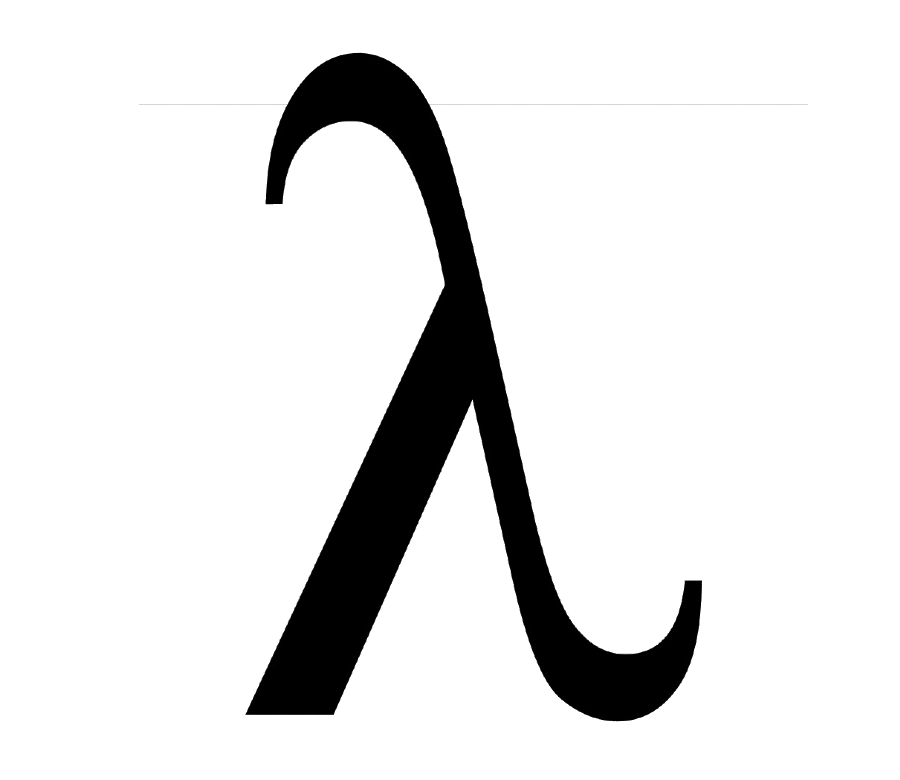
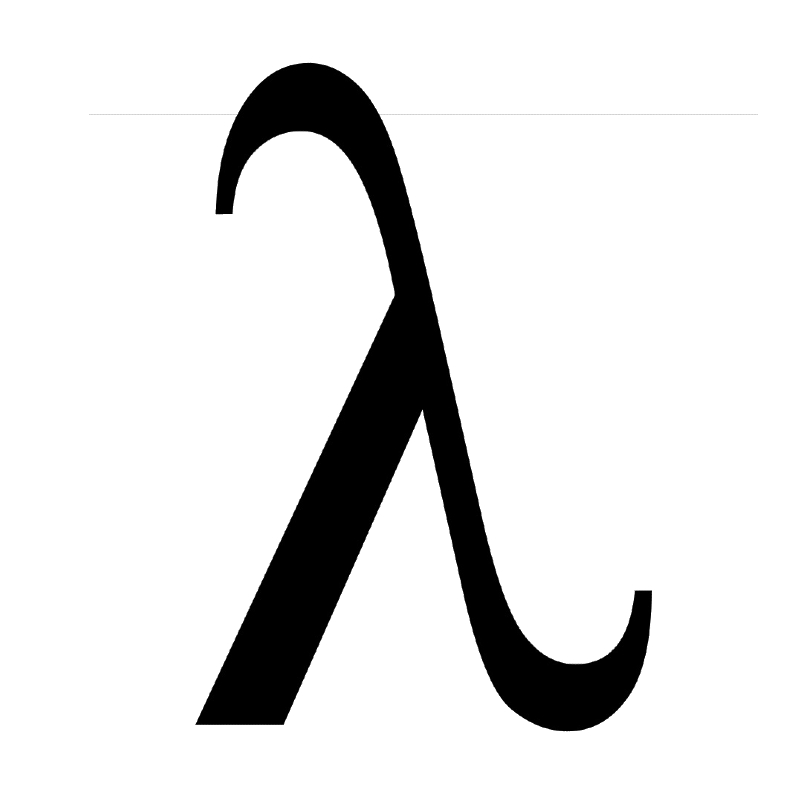
atualizei

diff --git a/portifolio3/css/style.scss b/portifolio3/css/style.scss
@@ -112,21 +112,49 @@ main {
     background-attachment: fixed;
     padding-top: 50px;
     position: relative;
+    height: 400px;
 }
 
+.alfbt {
+    width: 200px;
+    border: 2px solid black;
+    position: absolute;
+    display: flex;
+    left: 50%;
+    top: 20%;
+    transform: translate(-50%, -50%);
+}
 
 #alpha {
-    position: absolute;
     background: url(../imagens/alpha.png) center no-repeat;
     background-size: cover;
-    width: 15%;
-    height: 90px;
-    top: 20px;
-    left: 10%;
+    width: 44px;
+    height: 40px;
+    margin-top: 5px;
 }
 
+#lambda {
+    background: url(../imagens/lambda.png) center no-repeat;
+    background-size: cover;
+    width: 49.5px;
+    height: 45px;
+    margin-left: 4px;
+}
 
+#epsilon {
+    background: url(../imagens/epsilon.png) center no-repeat;
+    background-size: cover;
+    width: 49.5px;
+    height: 45px;
+}
 
+#phi {
+    background: url(../imagens/phi.png) center no-repeat;
+    background-size: cover;
+    width: 49.5px;
+    height: 45px;
+    margin-top: 8px;
+}
 
 .h1{
     text-transform: none;

diff --git a/portifolio3/css/style.css b/portifolio3/css/style.css
@@ -106,16 +106,48 @@ main {
   background-attachment: fixed;
   padding-top: 50px;
   position: relative;
+  height: 400px;
+}
+
+.alfbt {
+  width: 200px;
+  border: 2px solid black;
+  position: absolute;
+  display: flex;
+  left: 50%;
+  top: 20%;
+  transform: translate(-50%, -50%);
 }
 
 #alpha {
-  position: absolute;
   background: url(../imagens/alpha.png) center no-repeat;
   background-size: cover;
-  width: 15%;
-  height: 90px;
-  top: 20px;
-  left: 10%;
+  width: 44px;
+  height: 40px;
+  margin-top: 5px;
+}
+
+#lambda {
+  background: url(../imagens/lambda.png) center no-repeat;
+  background-size: cover;
+  width: 49.5px;
+  height: 45px;
+  margin-left: 4px;
+}
+
+#epsilon {
+  background: url(../imagens/epsilon.png) center no-repeat;
+  background-size: cover;
+  width: 49.5px;
+  height: 45px;
+}
+
+#phi {
+  background: url(../imagens/phi.png) center no-repeat;
+  background-size: cover;
+  width: 49.5px;
+  height: 45px;
+  margin-top: 8px;
 }
 
 .h1 {
